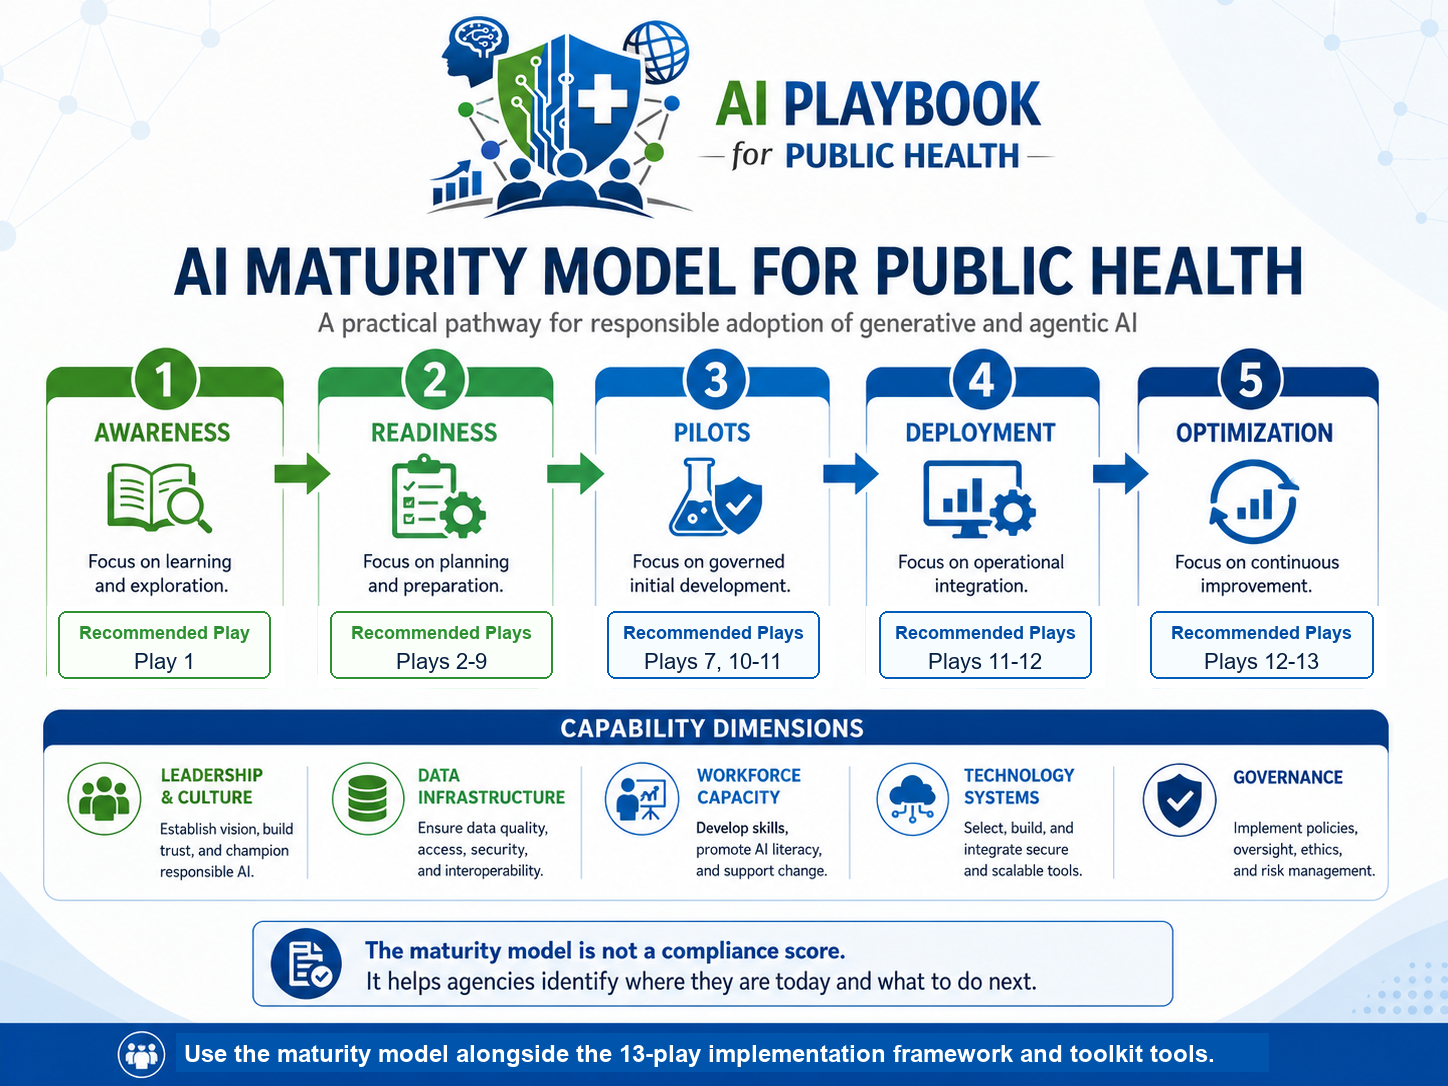
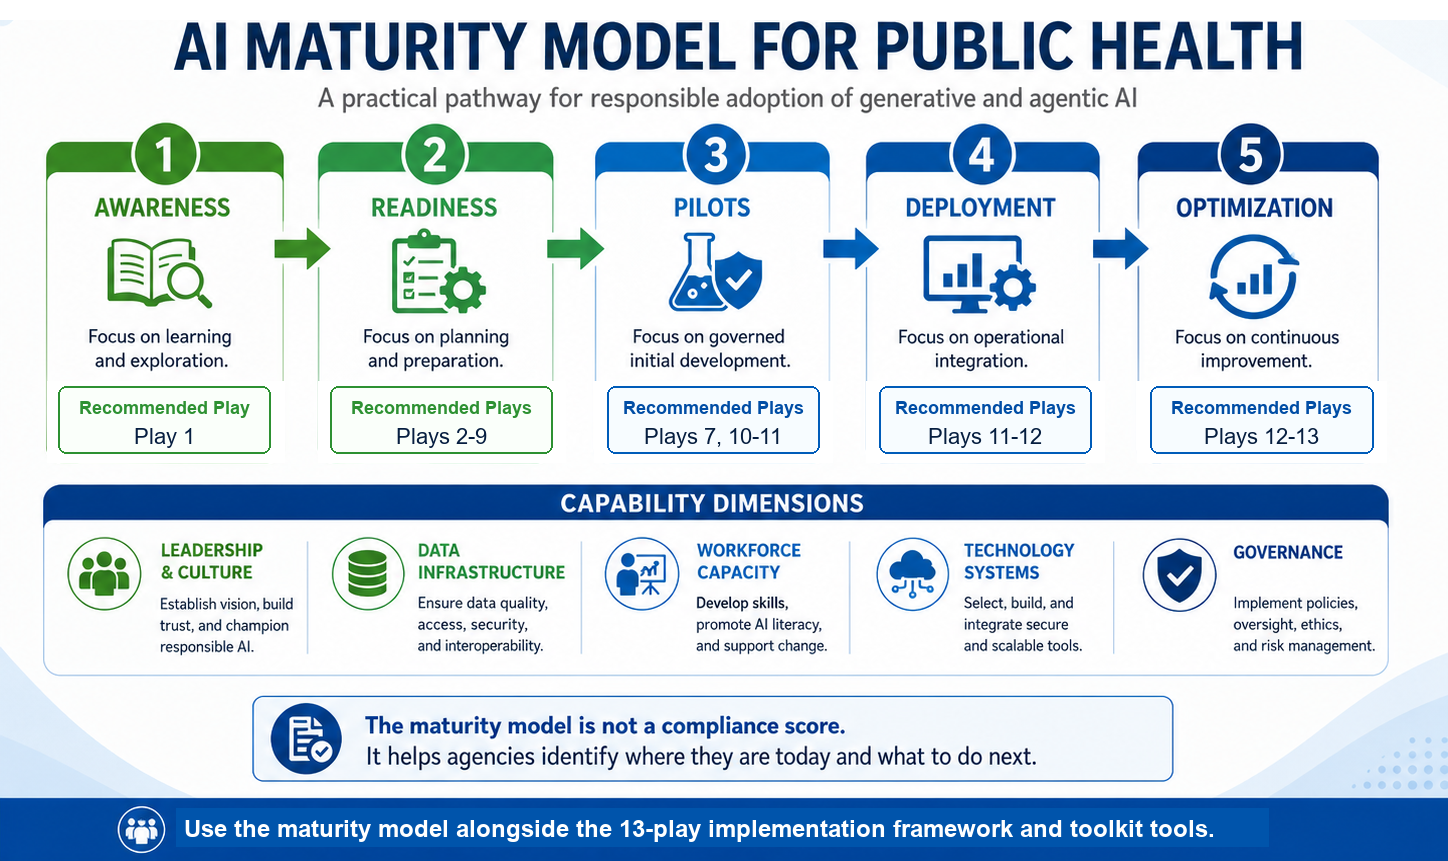
Crop maturity model header

diff --git a/styles.css b/styles.css
@@ -849,13 +849,13 @@ p { margin: 0 0 1rem; }
 .maturity-hotspot:focus-visible::after {
   opacity: 1;
 }
-.maturity-hotspot.stage { top: 34.5%; width: 16.8%; height: 32.5%; }
+.maturity-hotspot.stage { top: 17.4%; width: 16.8%; height: 41%; }
 .stage-1 { left: 3%; }
 .stage-2 { left: 22.3%; }
 .stage-3 { left: 42%; }
 .stage-4 { left: 61.2%; }
 .stage-5 { left: 80.6%; }
-.maturity-hotspot.dimension { top: 71.2%; width: 17%; height: 15.8%; }
+.maturity-hotspot.dimension { top: 63.7%; width: 17%; height: 19.9%; }
 .dimension-leadership { left: 3.1%; }
 .dimension-data { left: 22%; }
 .dimension-workforce { left: 41%; }

diff --git a/app.js b/app.js
@@ -3535,7 +3535,7 @@ async function downloadAssessment(format) {
 function renderMaturity() {
   main.innerHTML = pageIntro("AI Maturity Model", "The maturity model is not a grading system. It helps agencies identify honest current-state capabilities and the next responsible set of plays.") + `
     <figure class="maturity-graphic-panel">
-      <img src="assets/ai-maturity-model-public-health.png?v=play2-readiness" alt="AI maturity model for public health showing five stages from awareness to optimization and five capability dimensions." />
+      <img src="assets/ai-maturity-model-public-health.png?v=cropped-header" alt="AI maturity model for public health showing five stages from awareness to optimization and five capability dimensions." />
       <a class="maturity-hotspot stage stage-1" href="#/learn/understanding-ai" aria-label="Open Awareness learning foundations" title="Awareness: learning foundations" data-tip="Awareness: learning foundations"></a>
       <a class="maturity-hotspot stage stage-2" href="#/assess" aria-label="Open Readiness assessment" title="Readiness: assessment" data-tip="Readiness: assessment"></a>
       <a class="maturity-hotspot stage stage-3" href="#/plays/7" aria-label="Open Pilots use case prioritization" title="Pilots: prioritize use cases" data-tip="Pilots: prioritize use cases"></a>

diff --git a/index.html b/index.html
@@ -42,6 +42,6 @@
       <span><a href="#/contact">Contact Us</a></span>
       <span><a href="#/contribute">Feedback</a> · Playbook: <a href="downloads/AI_Playbook_for_Public_Health_Playbook.pdf">PDF</a> / <a href="downloads/AI_Playbook_for_Public_Health_Playbook.docx">Word</a> · Toolkit: <a href="downloads/AI_Playbook_for_Public_Health_Toolkit.pdf">PDF</a> / <a href="downloads/AI_Playbook_for_Public_Health_Toolkit.docx">Word</a></span>
     </footer>
-    <script src="app.js?v=20260708-guidance-output-table"></script>
+    <script src="app.js?v=20260708-cropped-maturity"></script>
   </body>
 </html>